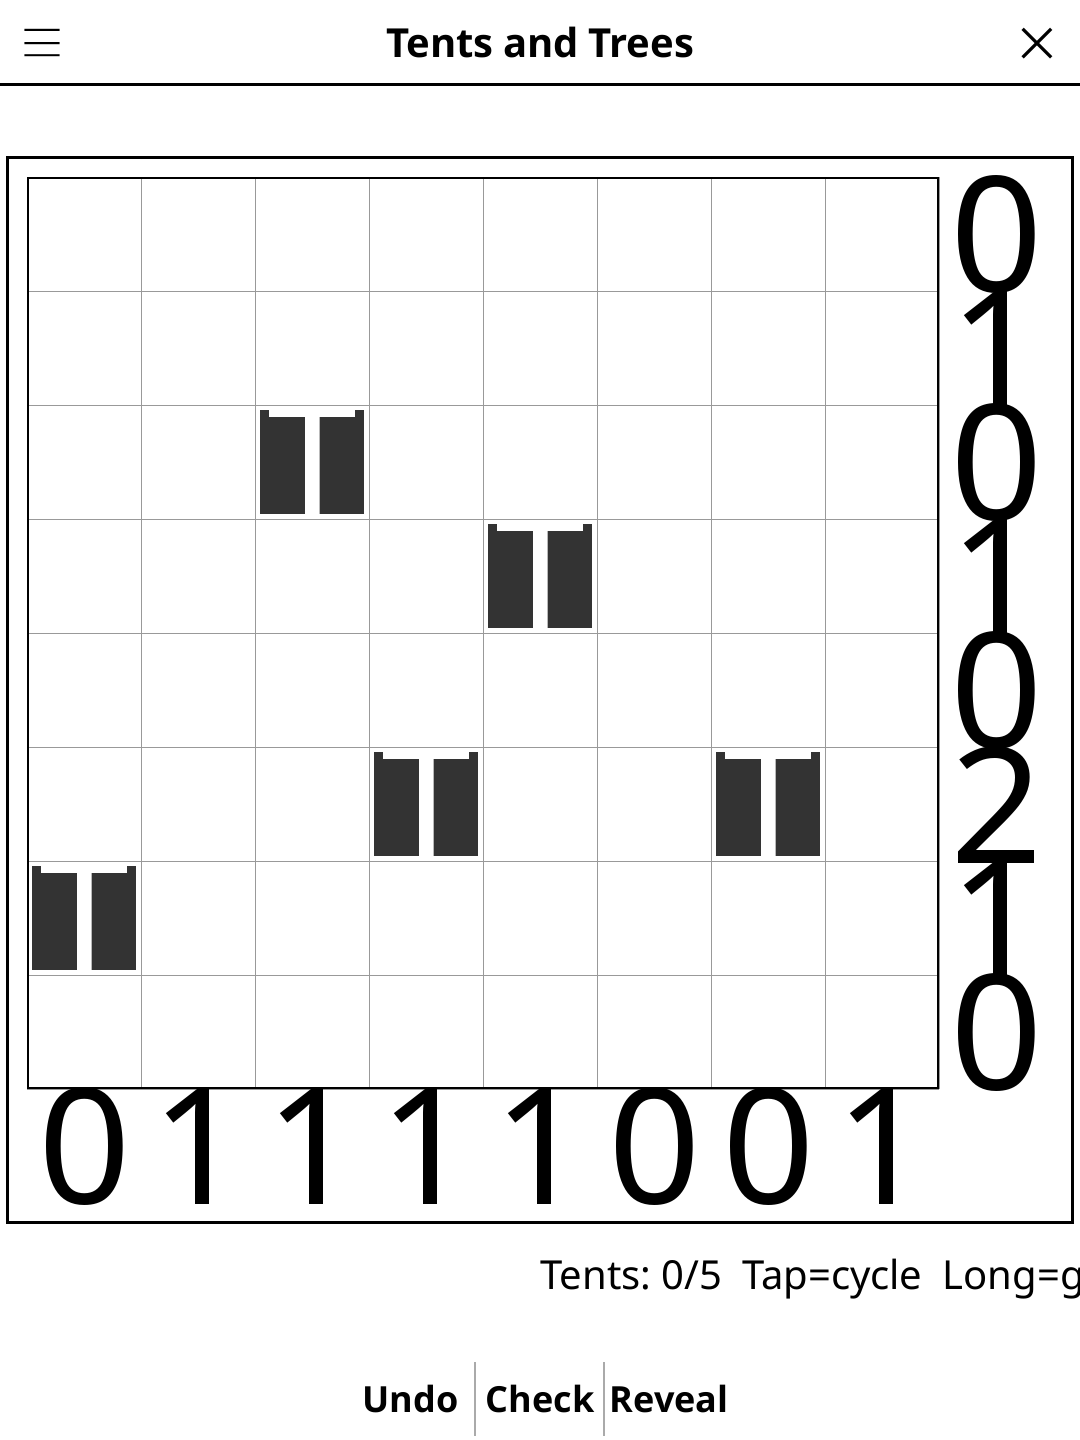
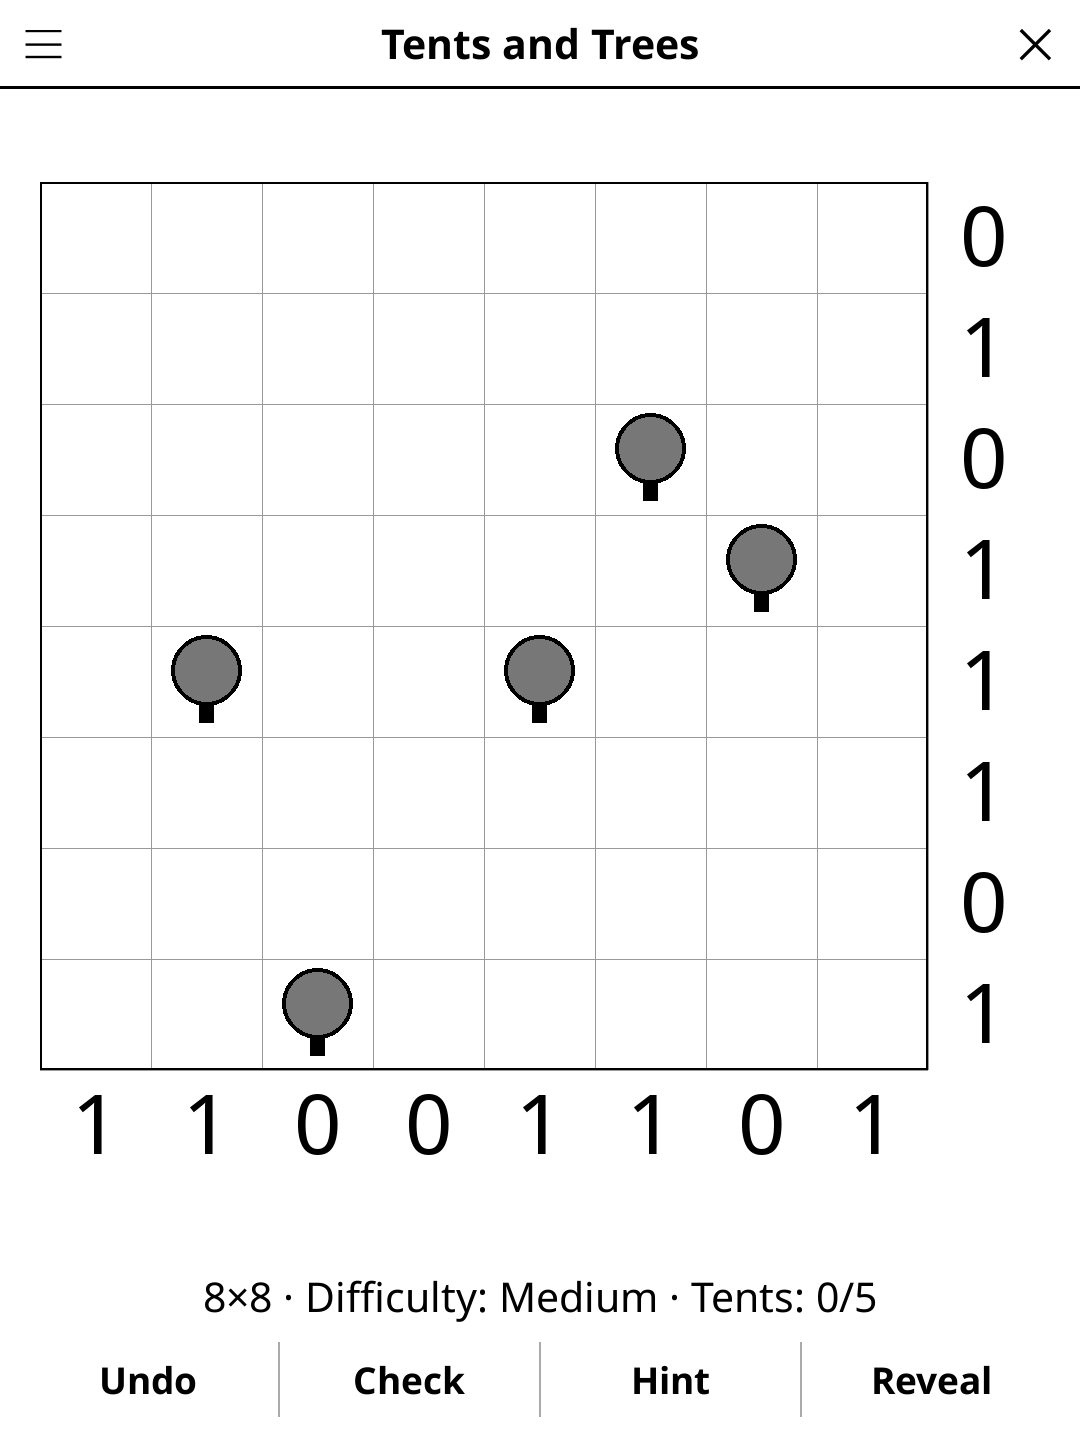
release: 1.3.0 -- redesigned screen, harmonised menu, New game at round end
Screen redesign (full-width action bar, unified pad, status line, larger
board), harmonised title-bar menu, and a "New game" button once the round
is over. See CHANGELOG.md.

diff --git a/CHANGELOG.md b/CHANGELOG.md
@@ -2,6 +2,30 @@
 
 All notable changes to this project will be documented in this file.
 
+## [1.3.0] - 2026-10-30
+
+### Changed
+- Redesigned play screen: the board is larger, filling the room the controls
+  leave, with a full-width action bar under the status line. The grid's thick
+  border is now the board's only frame.
+- Trees and tents are drawn as shapes on white cells (a crowned tree, a tent
+  with a door) instead of "T" and "^" letters on grey, and grass as a small
+  disc instead of a ".".
+- The status line shows size, difficulty and "Tents: 3/10", and wraps in
+  landscape instead of being cut off. The "Tap=cycle Long=grass" help it used
+  to carry is now in the rules.
+- The title-bar menu shows "Size: …" and "Difficulty: …" (was the bare
+  values), like every other game.
+- Once the puzzle is solved (or revealed), the action bar shows "New game" in
+  place of Undo/Check/Hint/Reveal, so the next round no longer needs the
+  menu.
+
+### Fixed
+- Clue numbers overflowed their space: the font fit accepted every size. They
+  are now fitted to the cell.
+- Using a hint wiped the saved game; it is now kept. When a hint places the
+  last tent, the status shows the win message.
+
 ## [1.2.2] - 2026-10-07
 
 ### Fixed

diff --git a/README.md b/README.md
@@ -45,8 +45,8 @@ Tree positions and row/column clues are given; deduce where every tent goes.
 | Undo last move | Tap **Undo** |
 | Check progress | Tap **Check** |
 | New game | Tap **New game** |
-| Change grid size | Tap **Grid** |
-| Change difficulty | Tap **Diff** |
+| Change grid size | Tap **Size** |
+| Change difficulty | Tap **Difficulty** |
 | Show rules | Tap **Rules** |
 
 ## Why e-ink friendly?
